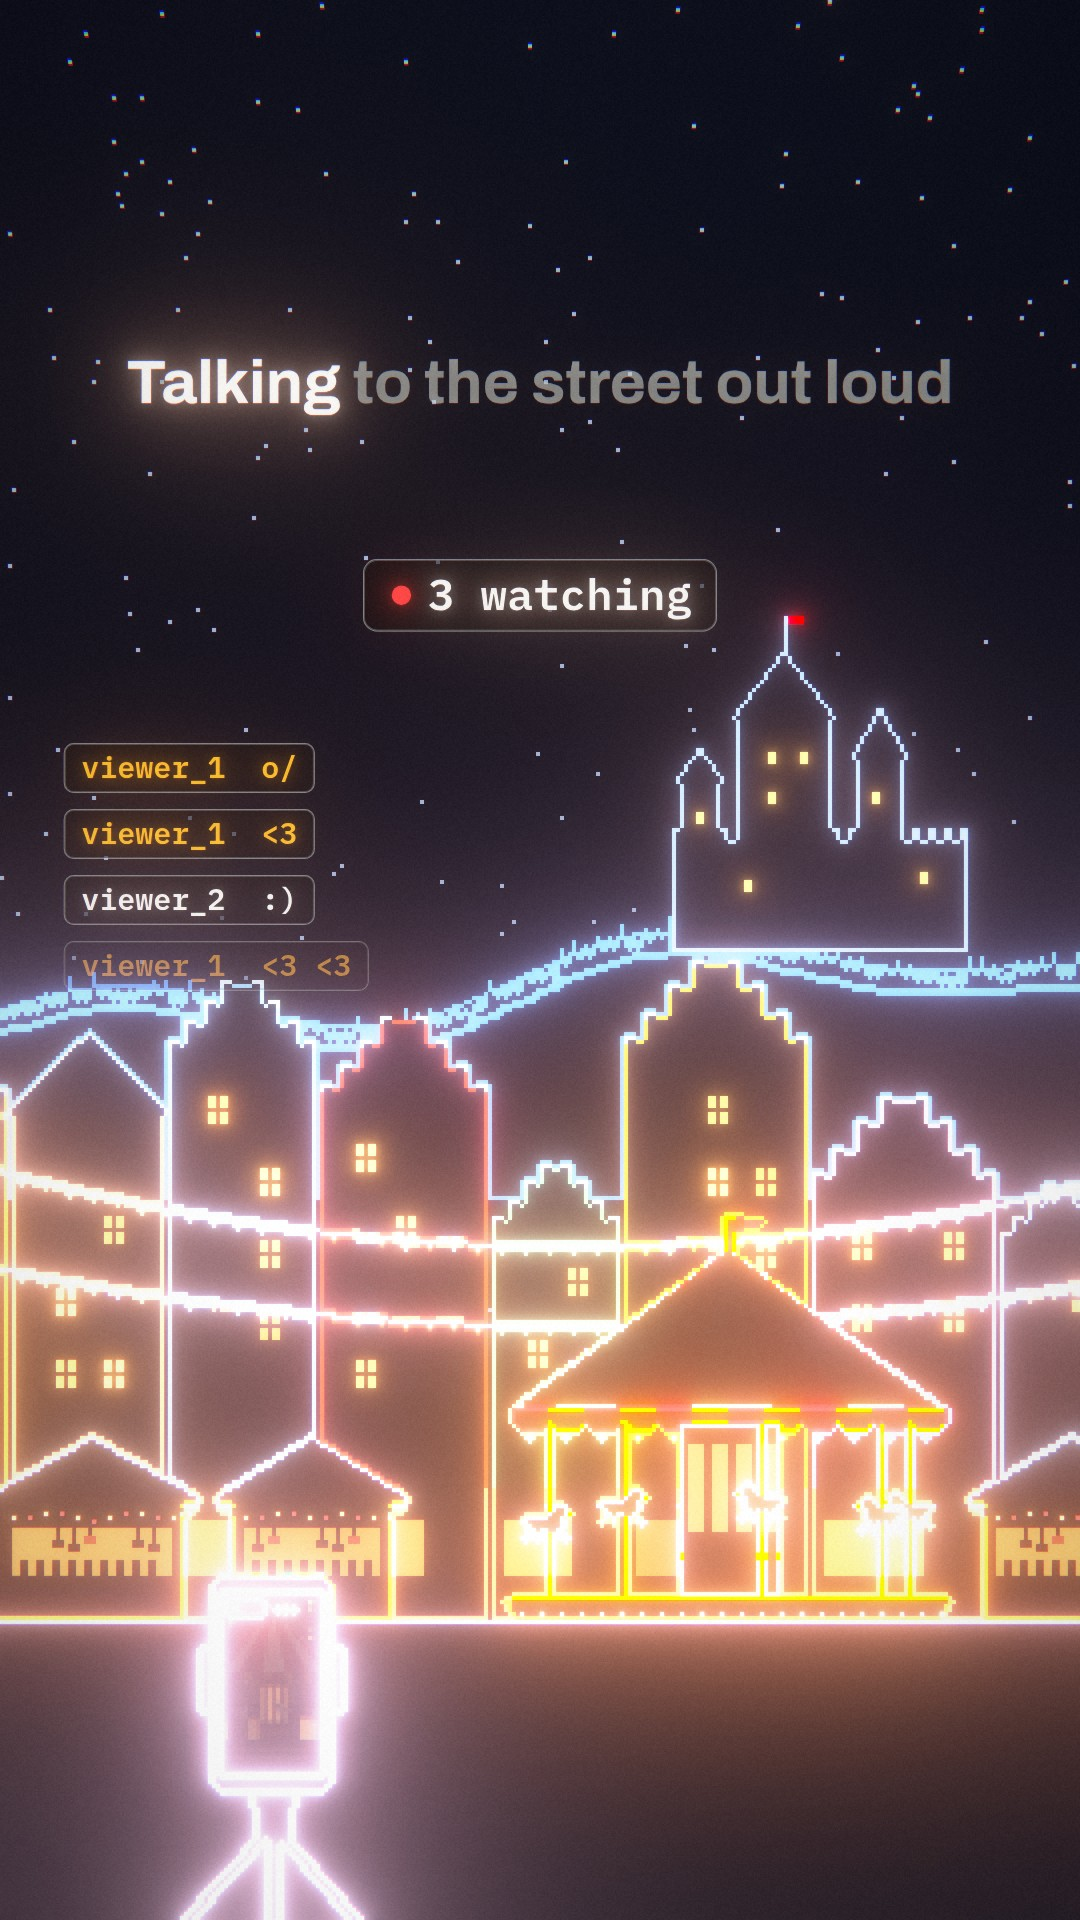
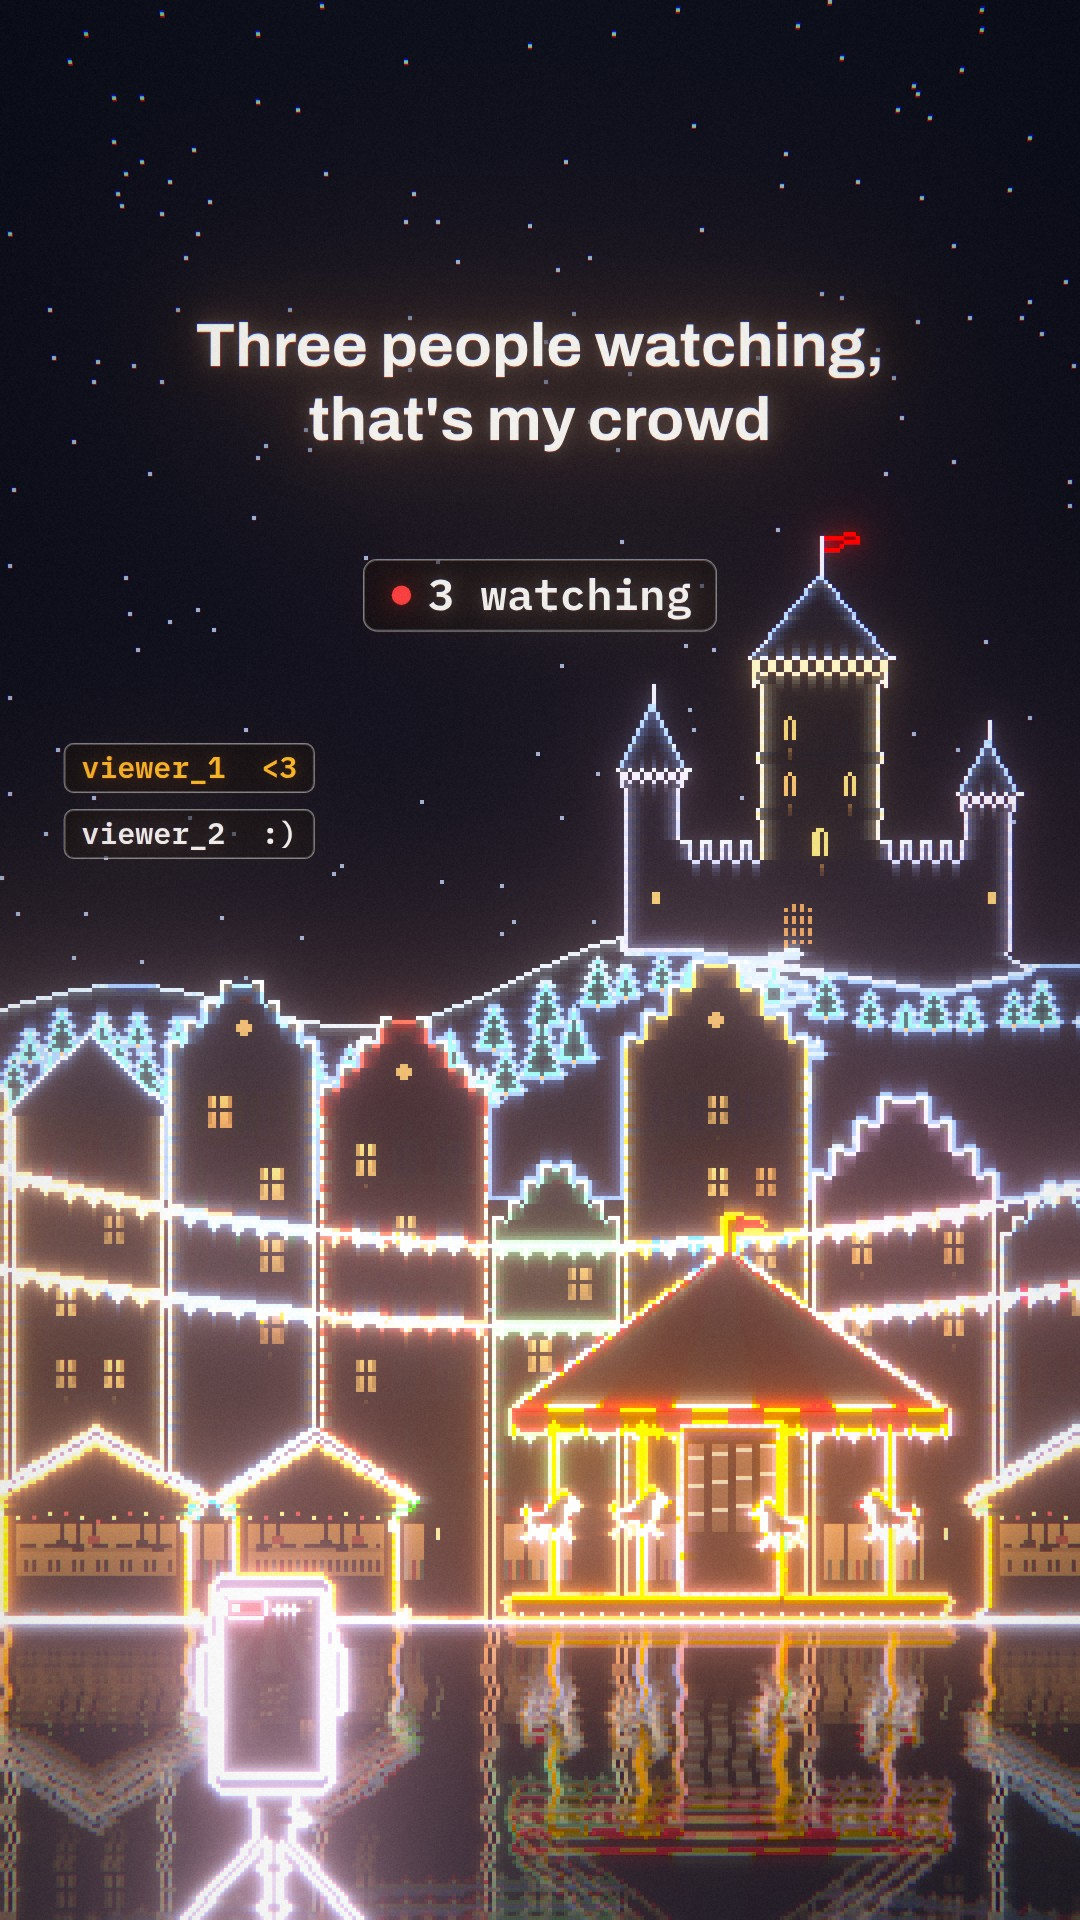
ST-01 style frames v4 (after QA rounds 1-7), updated STYLE_FRAMES.md and QA log
Claude-Session: https://claude.ai/code/session_014ovbscV2XeLVGCnB525Lp4

diff --git a/brand-video/films/ST-01_train-ride/STYLE_FRAMES.md b/brand-video/films/ST-01_train-ride/STYLE_FRAMES.md
@@ -13,25 +13,29 @@ Re-render any frame: `cd app && CHROME=<chromium> bun scripts/render.ts stills -
 - **Only facts from the post.** The two real chat lines are used word for word; other chat activity is
   neutral reactions only (`<3`, `o/`, `:)`), no invented messages. Lyrics on screen are the written lyric.
 
-## The frames
+## The frames (v4, after QA rounds 1–7, 2026-10-04)
+
+The first set was approved by the owner; the owner then flagged lazy detail (the castle). These are
+the rebuilt frames after the QA gate (0 flat objects, 0 text in platform UI zones) and seven rounds
+of independent review (final verdict: level 6, see `QA.md`). Times are seconds into the song.
 
 | # | Time | Look | What the viewer understands |
 |---|---|---|---|
-| 1a | 0:00 | Lit pixel art, blue hour | "Based on a true story" over the town at Christmas |
-| 1b | 0:03 | Pixel interior | The game-streaming desk: monitor goes dark, door opens, the phone wakes up LIVE (`first real IRL` → `LIVE · IRL`) |
-| 2 | 0:04 | Lit pixel art | The tour: market, castle, carousel; the phone on its tripod, its screen showing the carousel |
-| 3 | 0:12 | **Neon line** (same composition) | `1 → 3 watching`; one regular's name keeps lighting up in chat |
-| 4 | 0:16 | Pixel art seen **through the stream UI** | The train is in; "End stream?" comes up; then `wait, I've never been on a train` |
-| 5 | 0:21 | Pixel interior + moving world | The train pulls out past the platform lamps; the phone propped at the window |
-| 6 | 0:23 | **Macro of the phone screen** (LCD subpixels, shallow focus, bokeh) | `can you keep it on?` typed on the vocal |
-| 7 | 0:25 | Pixel, parallax + motion blur (hero shot) | The city falls away into snowy farmland, fast; signal bars dropping |
-| 8 | 0:36 | **Glitch** → black | On "gone": pixelate, tear, freeze `reconnecting…`, one beat of black, `signal lost` |
-| 9 | 0:37 | Macro of the screen, warm | `· reconnected ·` then `thanks for being so chill. amazing stream` |
-| 10a | 0:41 | **Newspaper halftone** | Front page slams in on the downbeat: `3 VIEWERS. ENOUGH.` |
-| 10b | 0:43 | Pixel globe at night | Pull back over the globe; a line of light from the train to one lit window on the other side of the world |
-| 11 | 0:45 | Lit pixel art, warm, handheld drift | Back in town like a visitor; the real message remembered, the companion spark beside it for ~1 s |
-| 12 | 0:53 | Lit pixel art, morning sun | A new day, `LIVE · IRL`; `They kept streaming IRL.` |
-| 13 | 0:58 | Brand end card | Spark, `Chobbot`, `never stream alone` (placeholder), the credit line |
+| 01 | 1.2 | Pixel interior | The game-streaming desk (an original game on the monitor), `first real IRL`, the hook sticker |
+| 02 | 4.0 | Lit pixel art, blue hour | The Christmas tour: market, castle, carousel; the phone on its tripod |
+| 03 | 10.5 | **Neon line** | `3 watching`; neutral reactions in chat |
+| 04a/b | 13.5 / 16.5 | Pixel through the **stream UI** | The train is in, "End stream?", then the real line `wait, I've never been on a train`; a push in |
+| 05 | 18.9 | Pixel interior | The carriage at the platform, the phone propped at the window |
+| 06 | 20.8 | **Phone-screen macro** | `can you keep it on?` pops in (received, no cursor) |
+| 07a | 23.5 | Pixel POV, parallax | Through the city on a viaduct: roofs, chimneys, lit windows below, towers behind |
+| 07b | 28.0 | Pixel POV, frost | Open farmland, frost growing on the glass: "Your first train, it moved so fast" |
+| 08a | 31.5 | Pixel close-up | The phone at the window: signal bars to zero, LIVE greys out, `reconnecting…` |
+| 08b | 33.3 | **Datamosh** | On "gone" the frozen picture smears apart: `signal lost` |
+| 09a/b | 34.5 / 36.8 | Macro, warm | The chat log after the drop, then `thanks for being so chill. amazing stream` |
+| 10a | 38.6 | **Newspaper halftone** | `3 VIEWERS. ENOUGH.` (copy from the post's facts only) |
+| 10b/c | 39.7 / 40.8 | Pixel globe at night | From the train's lights out to the whole Earth; an arc to the other side of the world |
+| 11a/b | 43.0 / 47.3 | Lit pixel art, night, closer | Back in town: the thank-you remembered |
+| 12a/b | 51.0 / 54.0 | Lit pixel art, morning | Fresh snow, the phone back on its tripod, `LIVE · IRL`, `They kept streaming IRL.`, the credit |
 
 ## Level 6 checklist (TIER_LIST.md)
 
@@ -54,14 +58,15 @@ Re-render any frame: `cd app && CHROME=<chromium> bun scripts/render.ts stills -
 | Sets: town (3 times of day), station, carriage + moving world, desk | built (`sets/`) |
 | Materials: neon line, glitch, newspaper halftone, phone-screen macro, pixel globe | built |
 | Stream UI (our own generic design), chat, lyric subtitles, captions | built (`app/src/kit/overlay.ts`) |
-| Companion mascot (spark) | built, placeholder until brand tokens land |
-| Brand: colours, end-card wordmark, tagline, sonic logo | **placeholders**: waiting for the design |
-| Transitions between scenes (material wipes on the beat) | to build in the animatic (step 7) |
+| Transitions between scenes (material wipes on the beat) | built (`engine.ts`) |
+| QA gate (G-buffer detail stats, safe-zone text check, zoom sheets) | built (`tools/qa_frames.py`, `docs/QA.md`) |
 
 ## Open points for you
 
-1. The tagline (`never stream alone` is a placeholder) and brand colours.
-2. The permission message to the Reddit author (draft in the script).
+1. The permission message to the Reddit author (draft in the script); `retold with permission` goes into the credit only after a yes.
+2. "Reddit" in the credit: keep (a source credit) or drop (no-brand rule)?
+3. `can you keep it on?` on the phone is the approved script's line, but the post only says the viewer wanted to keep watching: keep it as the viewer's message, or show it only as the sung lyric?
+4. The front-page body copy sits under TikTok's caption (page texture): keep, or soften it?
 
 ## Change after approval (owner, 2026-10-04)
 

diff --git a/brand-video/films/ST-01_train-ride/QA.md b/brand-video/films/ST-01_train-ride/QA.md
@@ -53,3 +53,19 @@ lyric handover); a textured globe close-up, a true datamosh, phone macros with a
 | Smaller | Lyric handover fade; hook sticker lower; lyric plate; desk chair quilting, sheen, stitching; headphones prop; dawn grade; credit plate; stream chat and input clear of the caption zone. |
 
 Automated gate (21 frames): **0 flat objects, 0 text in UI zones.**
+
+## Runs 4–7 · 2026-10-04 · independent review rounds 3–6
+
+| Round | Verdict | Main fixes that followed |
+|---|---|---|
+| 3 | not level 6 (train 5, abstract beats 4–5) | credit stops claiming permission; thank-you shown as a received message after the drop; city on a viaduct; smooth snow drifts; phone close-up pushed in; macros with a real phone and carriage behind; globe from the limb; night outro, closer framing; morning snow; stepped pixel clouds |
+| 4 | close (town, outro, front page, city POV at 6) | "first proper IRL" (the poster had test streams before); no invented stream time; station hill under the lyric and a real push-in; consistent chat order; pop-in messages, no cursor; globe arc faces the camera; original desk game (the old one resembled a famous platformer) |
+| 5 | most blocks at 6 | morning tripod, footprints, gable caps; globe night side, no lights on the ice; macro table and frosted window; `reconnecting…` on the phone; city lamp pools and facades vary |
+| 6 | **meets level 6**, one must-fix | the desk chair read as see-through (quilting rows lined up with the floor planks): diamond quilting, outline, lighter fabric; polish: hook higher, arc 30 px further from the buttons, soft street glow, calmer neon ripples |
+
+Final automated gate (21 frames): **0 flat objects, 0 text in UI zones.** Reviewer levels after round 6:
+desk 5.5 → fixed, town 6.5, neon 6, station 6, train 6, signal lost 6, macros 5.5–6, front page 6,
+globe 6–6.5, outro 6.5, morning 6.
+
+Polish left for the level-8 build: the macro phone is smooth (not pixel art), pixel snow on the
+morning square, platform furniture at the station, a lit window cluster at the globe's end marker.
